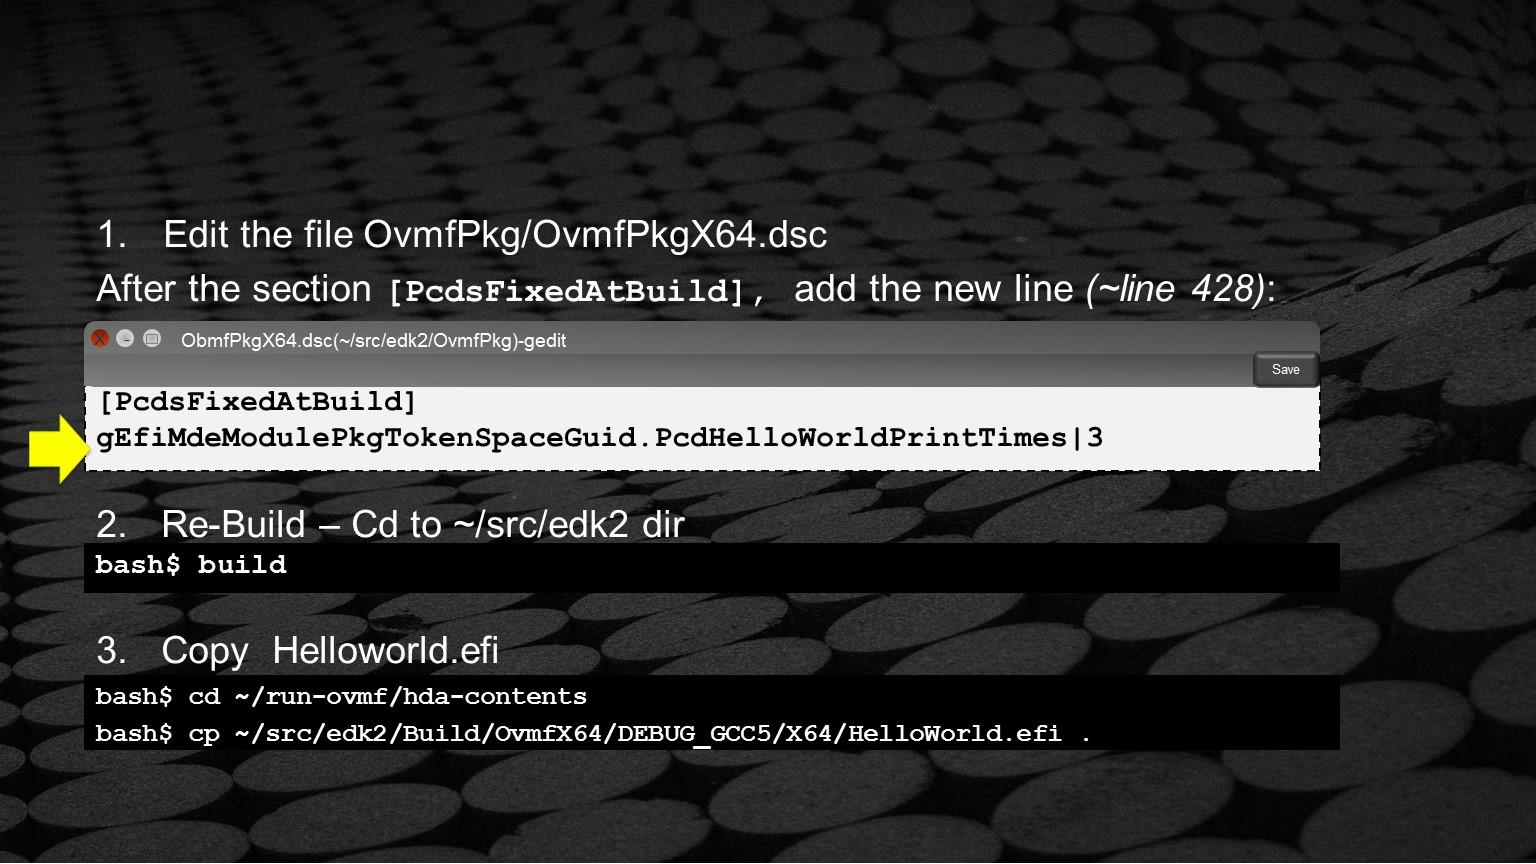
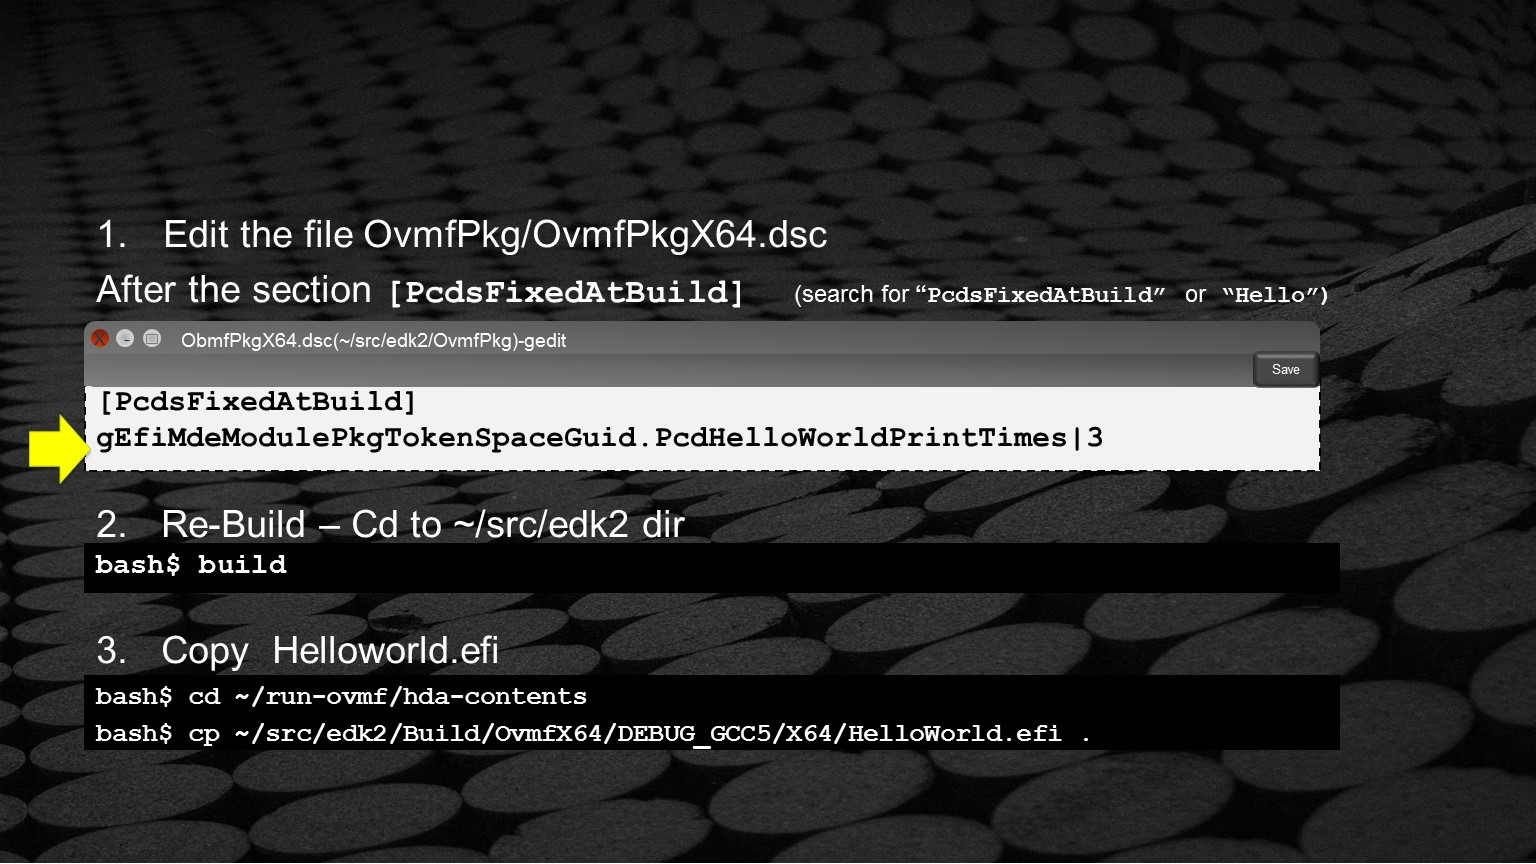
Signed-off-by: Laurie0131 <laurie.jarlstrom@intel.com>

Changed region(s): [[0.5, 0.3125, 0.8438, 0.375], [0.25, 0.3125, 0.4375, 0.375], [0.0625, 0.3125, 0.2188, 0.3438]]

diff --git a/PITCHME.md b/PITCHME.md
@@ -185,7 +185,26 @@ Note:
  - `bash$ build`
 </pre>
  
- 
++++
+@title[EDK II HelloWorld  App  Lab copy & paste ]
+<p align="right"><span class="gold" >EDK II HelloWorld  App  Lab  </span></p>
+<span style="font-size:0.8em" >Copy HelloWorld.inf and paste into OvmfPkg/OvmfPkgX64.dsc at the End of the file - Save </span>
+```
+[Components]
+#  . . . 
+
+# Add new modules here
+ MdeModulePkg/Application/HelloWorld/HelloWorld.inf
+
+```
+<span style="font-size:0.8em" >Build OvmfPkgX64</span>
+```
+bash$ cd ~/src/edk2
+bash$ build
+```
+
+Note:
+
  
 ---
 @title[EDK II HelloWorld  App  Lab steps]
@@ -193,7 +212,7 @@ Note:
 1. <span style="font-size:0.8em" >Copy the HelloWorld.efi to the ~run-ovmf/hda-contents directory</span>
 ```shell
   bash$ cd ~/run-ovmf/hda-contents
-  bash$ cp ~/src/edk2/Build/OvmfX64/DEBUG_GCC5/X64/HelloWorld.efi
+  bash$ cp ~/src/edk2/Build/OvmfX64/DEBUG_GCC5/X64/HelloWorld.efi .
 ```
 2. <span style="font-size:0.8em" >CD to the run-ovmf directory and run Qemu with the RunQemu.sh shell</span>
 ```shell
@@ -279,7 +298,7 @@ Note:
 
 
 1. Edit the file OvmfPkg/OvmfPkgX64.dsc
-  - After the section [PcdsFixedAtBuild], add the new line (~line 428):  
+  - After the section [PcdsFixedAtBuild], add the new line (~line 455):  
   - `[PcdsFixedAtBuild]`
   - `gEfiMdeModulePkgTokenSpaceGuid.PcdHelloWorldPrintTimes|3`
 
